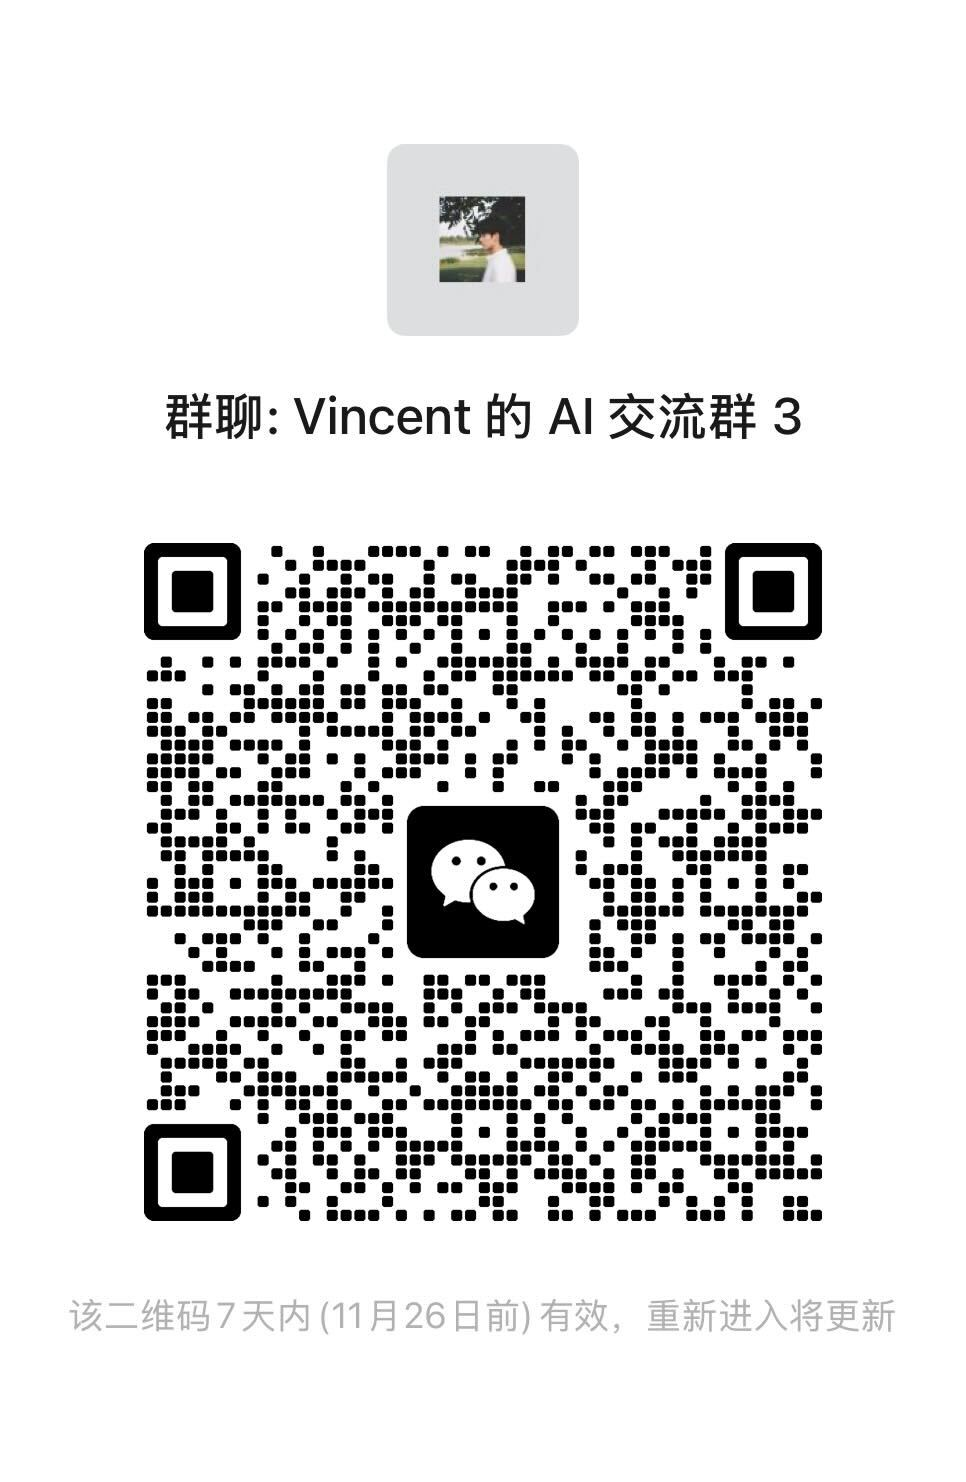
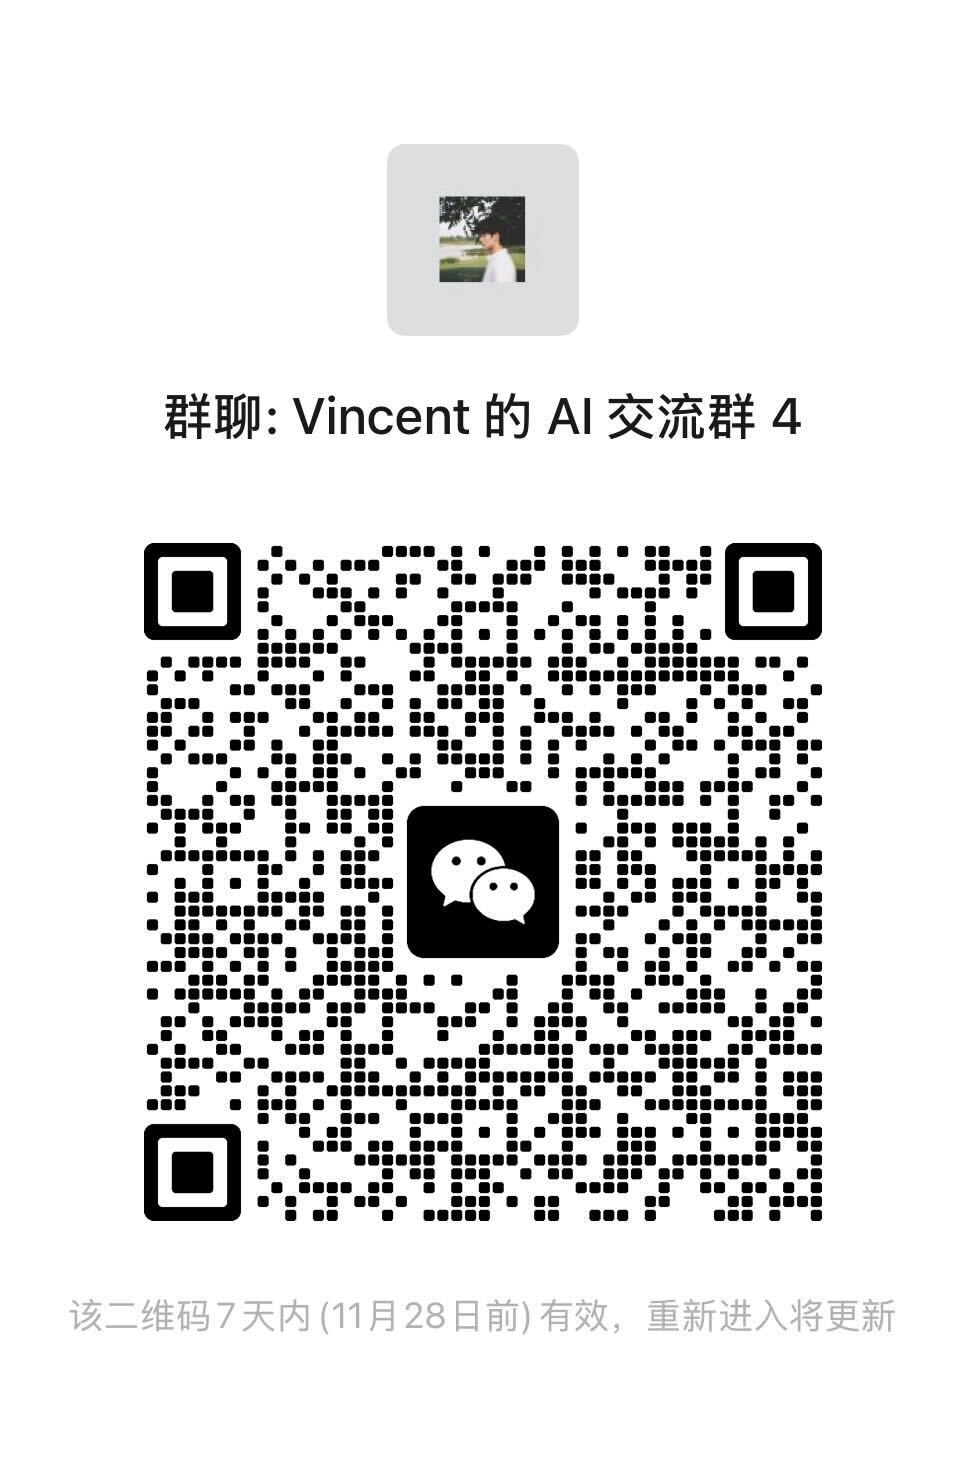
Update WeChat community to group 4

diff --git a/README_RU.md b/README_RU.md
@@ -305,10 +305,10 @@ CLI поиска и загрузки Video Shotcraft реализован нез
 
 ## 💬 Сообщество WeChat
 
-Присоединяйтесь к «Vincent 的 AI 交流群 3», чтобы обсуждать приложения ИИ, программирование и создание видео.
+Присоединяйтесь к «Vincent 的 AI 交流群 4», чтобы обсуждать приложения ИИ, программирование и создание видео.
 
-<a href="assets/wechat-group.jpg?v=3"><img src="assets/wechat-group.jpg?v=3" alt="QR-код AI-сообщества Vincent в WeChat" width="400"></a>
+<a href="assets/wechat-group.jpg?v=4"><img src="assets/wechat-group.jpg?v=4" alt="QR-код AI-сообщества Vincent в WeChat" width="400"></a>
 
 Отсканируйте QR-код в WeChat. На телефоне сохраните изображение и выберите его из альбома в функции сканирования WeChat.
 
-QR-код действителен **до 2026-11-26**; ориентируйтесь на уведомление WeChat. Если срок истёк, [свяжитесь с Vincent в X](https://x.com/VincentWei93), чтобы узнать актуальный способ вступить.
+QR-код действителен **до 2026-11-28**; ориентируйтесь на уведомление WeChat. Если срок истёк, [свяжитесь с Vincent в X](https://x.com/VincentWei93), чтобы узнать актуальный способ вступить.

diff --git a/README_JA.md b/README_JA.md
@@ -300,10 +300,10 @@ BGM と既存テンプレート音声の提供元
 
 ## 💬 WeChat グループ
 
-「Vincent 的 AI 交流群 3」で、AI アプリ、プログラミング、動画制作について交流しましょう。
+「Vincent 的 AI 交流群 4」で、AI アプリ、プログラミング、動画制作について交流しましょう。
 
-<a href="assets/wechat-group.jpg?v=3"><img src="assets/wechat-group.jpg?v=3" alt="Vincent の AI WeChat グループ参加用 QR コード" width="400"></a>
+<a href="assets/wechat-group.jpg?v=4"><img src="assets/wechat-group.jpg?v=4" alt="Vincent の AI WeChat グループ参加用 QR コード" width="400"></a>
 
 WeChat で QR コードを読み取って参加できます。スマートフォンでは画像を保存し、WeChat のスキャン機能でアルバムから選んでください。
 
-この QR コードは **2026-11-26 より前**まで有効です（WeChat の表示を優先）。期限切れの場合は、[X で Vincent に連絡](https://x.com/VincentWei93)して最新の参加方法を確認してください。
+この QR コードは **2026-11-28 より前**まで有効です（WeChat の表示を優先）。期限切れの場合は、[X で Vincent に連絡](https://x.com/VincentWei93)して最新の参加方法を確認してください。

diff --git a/README.md b/README.md
@@ -324,10 +324,10 @@ Sponsorship is entirely optional. Stars, feedback, and sharing are just as welco
 
 ## 💬 WeChat community
 
-Join “Vincent 的 AI 交流群 3” to chat about AI applications, coding, and video creation.
+Join “Vincent 的 AI 交流群 4” to chat about AI applications, coding, and video creation.
 
-<a href="assets/wechat-group.jpg?v=3"><img src="assets/wechat-group.jpg?v=3" alt="Vincent’s AI WeChat community QR code" width="400"></a>
+<a href="assets/wechat-group.jpg?v=4"><img src="assets/wechat-group.jpg?v=4" alt="Vincent’s AI WeChat community QR code" width="400"></a>
 
 Scan with WeChat to join. On a phone, save the image, then open WeChat’s Scan feature and select it from your album.
 
-This QR code is valid before **2026-11-26**, subject to WeChat’s notice. If it has expired, [contact Vincent on X](https://x.com/VincentWei93) for the latest way to join.
+This QR code is valid before **2026-11-28**, subject to WeChat’s notice. If it has expired, [contact Vincent on X](https://x.com/VincentWei93) for the latest way to join.

diff --git a/README_TW.md b/README_TW.md
@@ -293,10 +293,10 @@ Video Shotcraft 的搜尋與下載 CLI 為獨立實現。
 
 ## 💬 微信群
 
-歡迎加入「Vincent 的 AI 交流群 3」，一起交流 AI 應用、程式開發和影片創作。
+歡迎加入「Vincent 的 AI 交流群 4」，一起交流 AI 應用、程式開發和影片創作。
 
-<a href="assets/wechat-group.jpg?v=3"><img src="assets/wechat-group.jpg?v=3" alt="Vincent 的 AI 交流群 3 微信入群 QR code" width="400"></a>
+<a href="assets/wechat-group.jpg?v=4"><img src="assets/wechat-group.jpg?v=4" alt="Vincent 的 AI 交流群 4 微信入群 QR code" width="400"></a>
 
 用微信掃碼加入。使用手機瀏覽時，可先儲存圖片，再在微信「掃一掃」中從相簿選取。
 
-此 QR code 在 **2026-11-26 前**有效，以微信提示為準。若已失效，可[透過 X 聯絡 Vincent](https://x.com/VincentWei93)取得最新入群方式。
+此 QR code 在 **2026-11-28 前**有效，以微信提示為準。若已失效，可[透過 X 聯絡 Vincent](https://x.com/VincentWei93)取得最新入群方式。

diff --git a/README_CN.md b/README_CN.md
@@ -311,10 +311,10 @@ Video Shotcraft 的搜索与下载 CLI 为独立实现。
 
 ## 💬 微信群
 
-欢迎加入「Vincent 的 AI 交流群 3」，一起交流 AI 应用、编程和视频创作。
+欢迎加入「Vincent 的 AI 交流群 4」，一起交流 AI 应用、编程和视频创作。
 
-<a href="assets/wechat-group.jpg?v=3"><img src="assets/wechat-group.jpg?v=3" alt="Vincent 的 AI 交流群 3 微信入群二维码" width="400"></a>
+<a href="assets/wechat-group.jpg?v=4"><img src="assets/wechat-group.jpg?v=4" alt="Vincent 的 AI 交流群 4 微信入群二维码" width="400"></a>
 
 用微信扫一扫加入。手机查看时，可保存图片，再在微信「扫一扫」中从相册选择。
 
-此二维码在 **2026-11-26 前**有效，以微信提示为准。若已失效，可[通过 X 联系 Vincent](https://x.com/VincentWei93)获取最新入群方式。
+此二维码在 **2026-11-28 前**有效，以微信提示为准。若已失效，可[通过 X 联系 Vincent](https://x.com/VincentWei93)获取最新入群方式。
